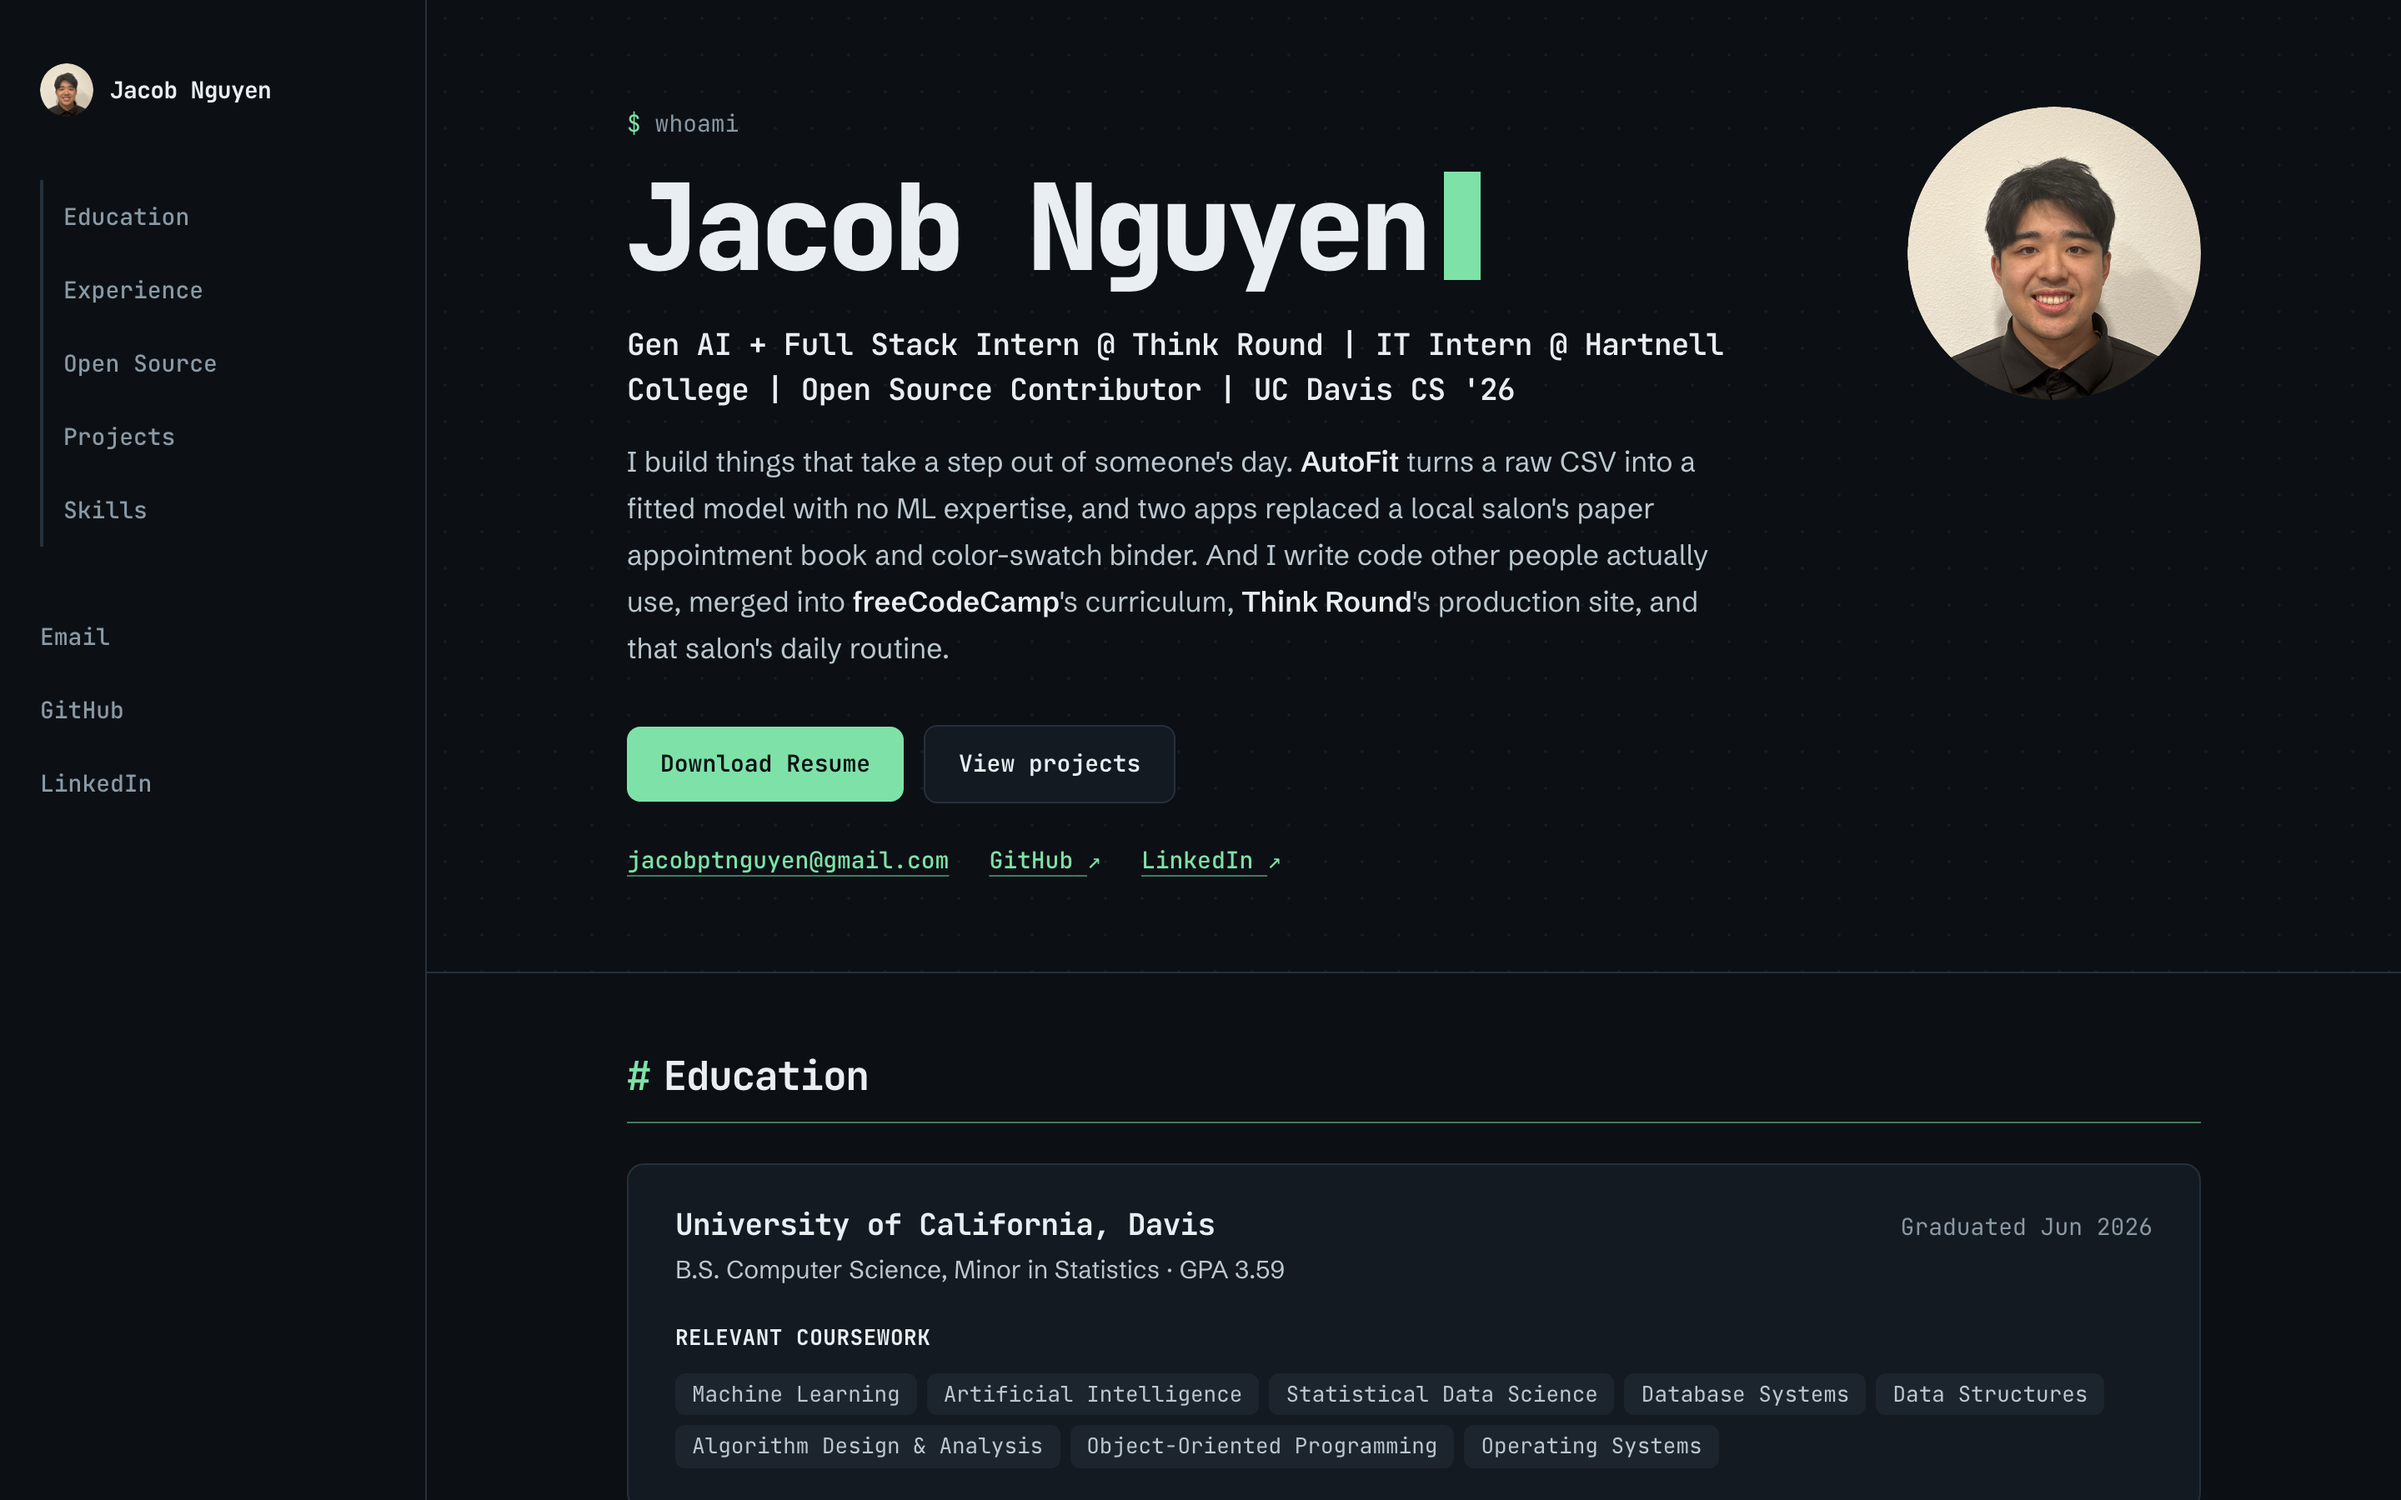
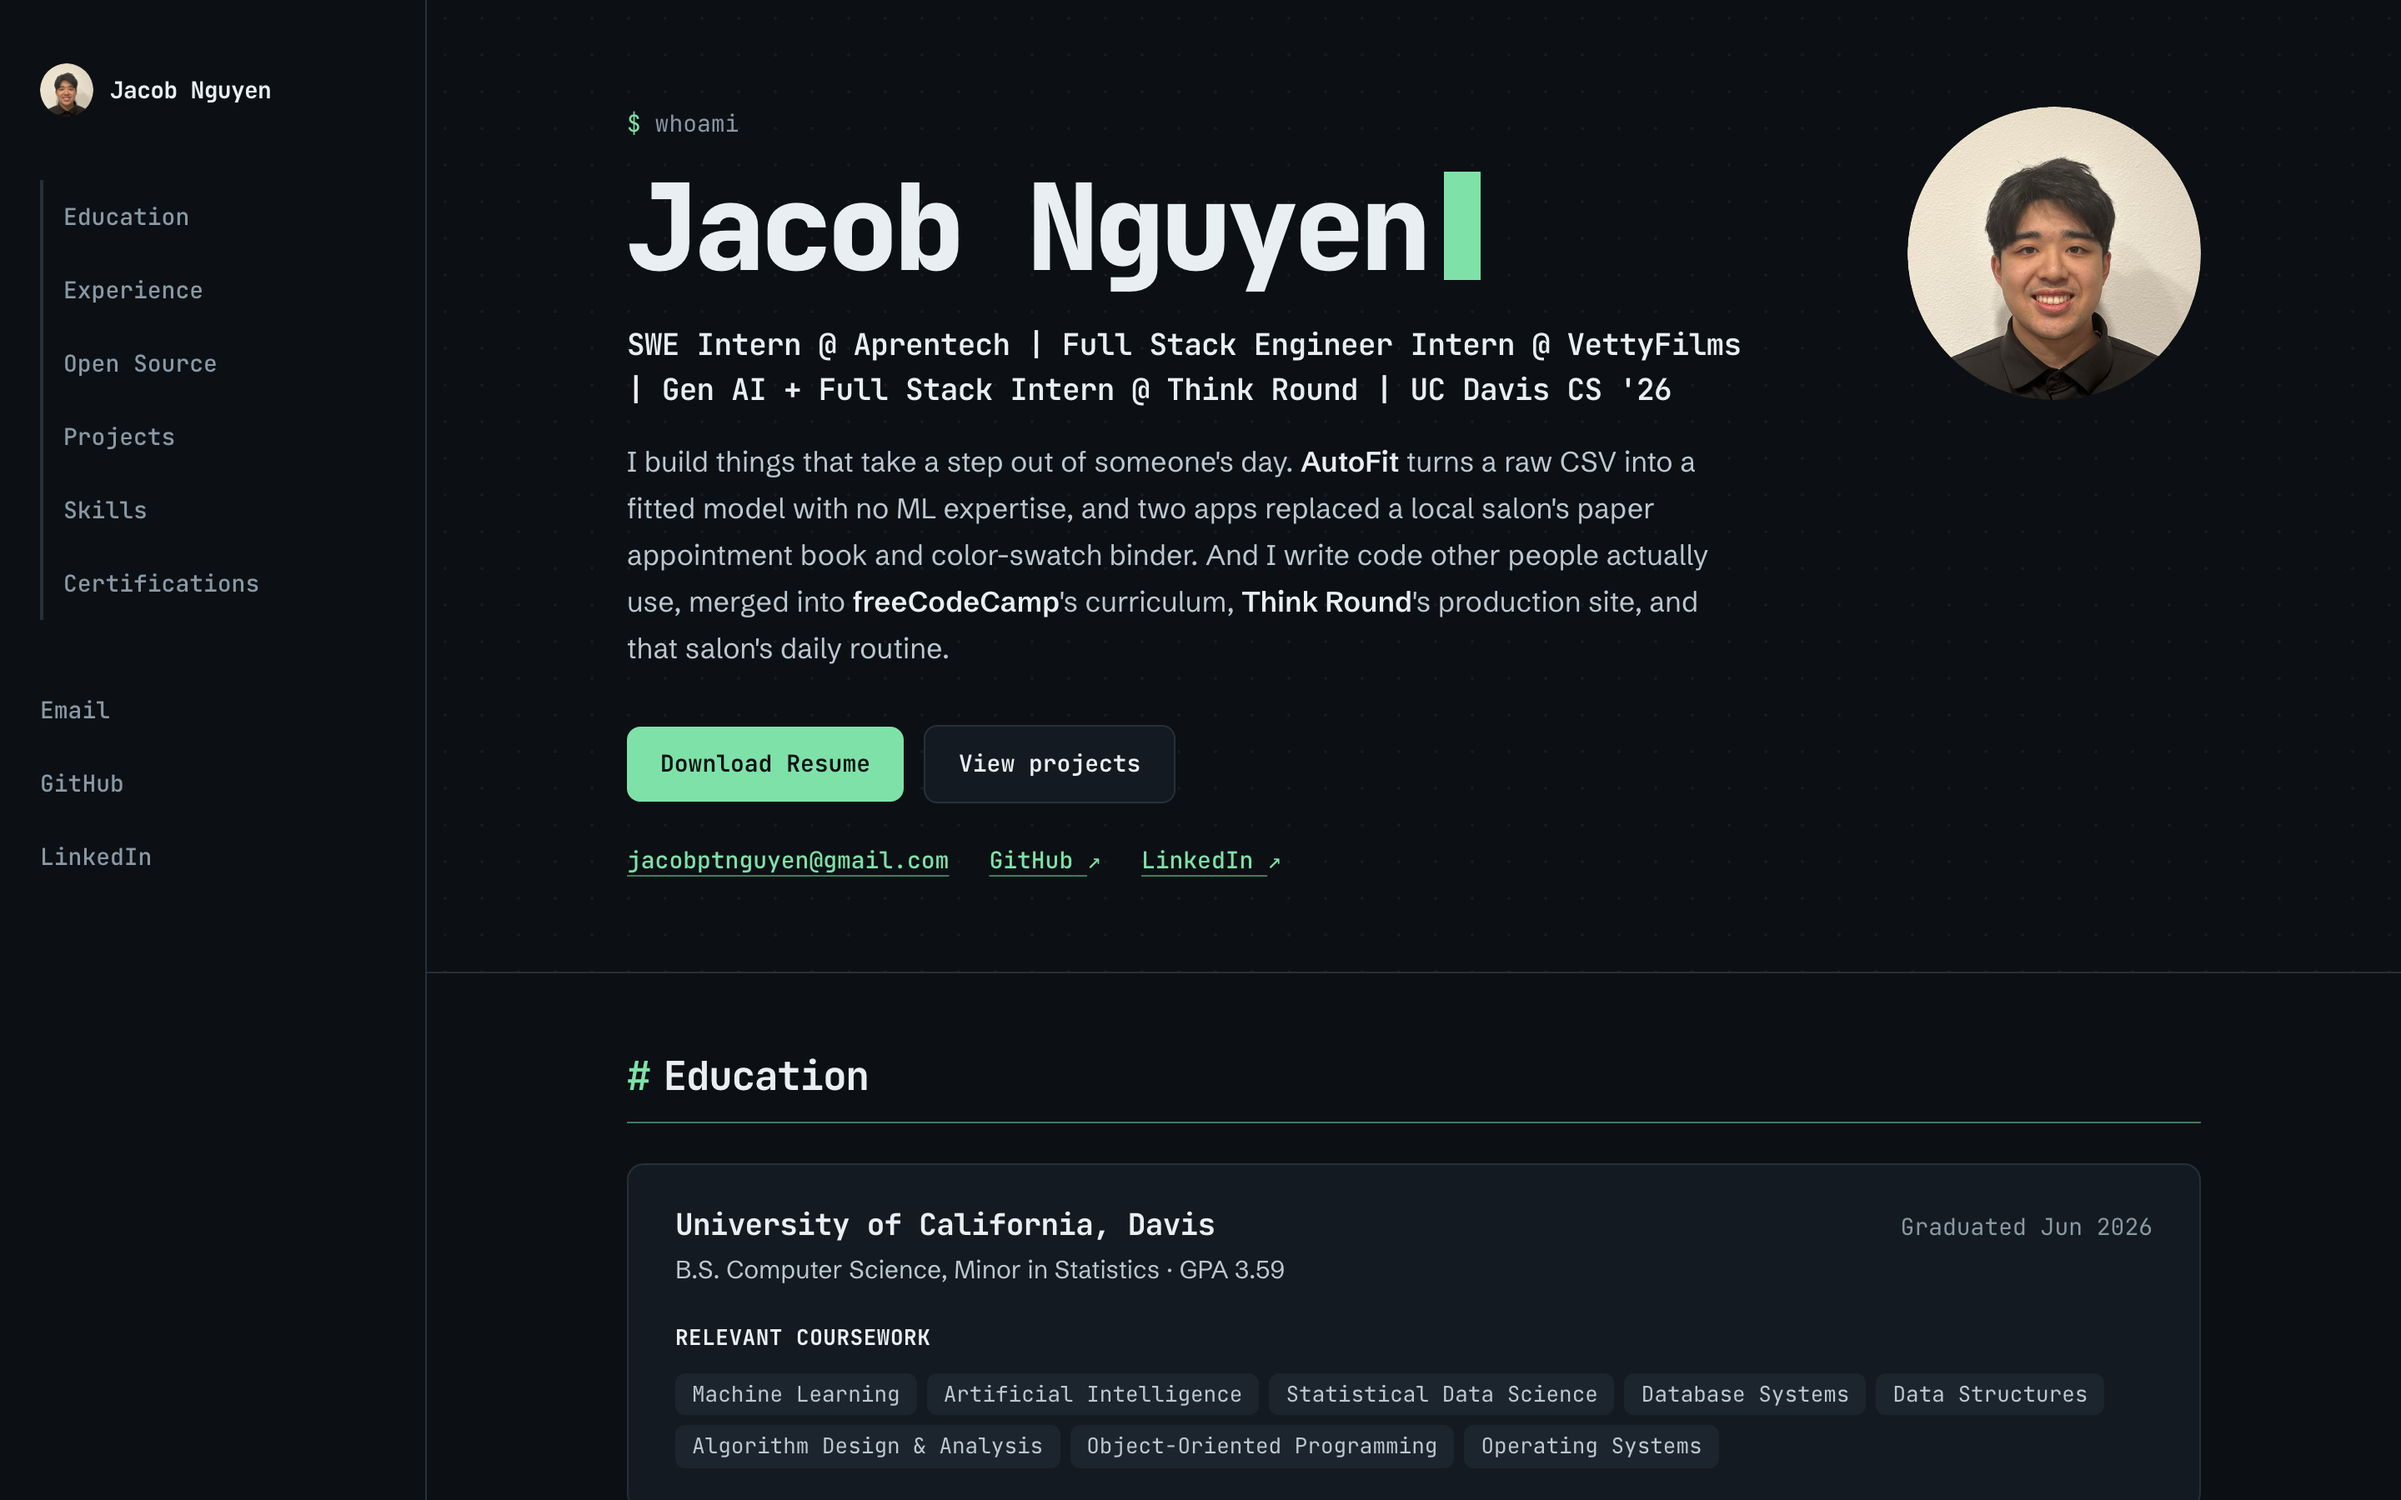
update

diff --git a/src/data.js b/src/data.js
@@ -7,7 +7,7 @@ export const contact = {
 export const hero = {
   name: 'Jacob Nguyen',
   headline:
-    "Software Engineer Intern @ Aprentech | Full Stack Engineer Intern @ VettyFilms | Gen AI + Full Stack Intern @ Think Round | UC Davis CS '26",
+    "SWE Intern @ Aprentech | Full Stack Engineer Intern @ VettyFilms | Gen AI + Full Stack Intern @ Think Round | UC Davis CS '26",
   pitch:
     "I build things that take a step out of someone's day. **AutoFit** turns a raw CSV into a "
     + "fitted model with no ML expertise, and two apps replaced a local salon's paper appointment "
